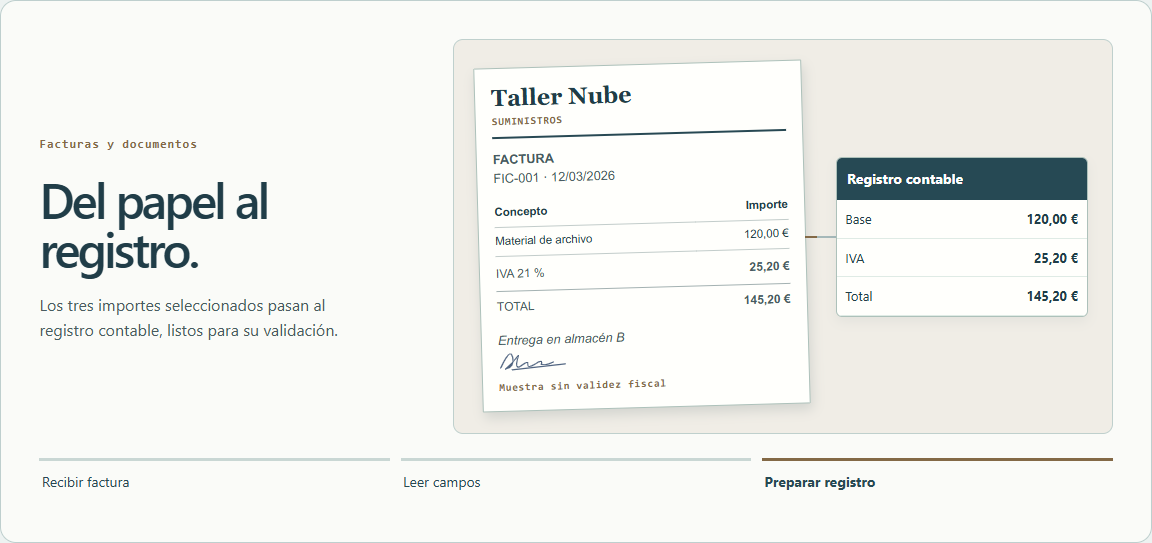
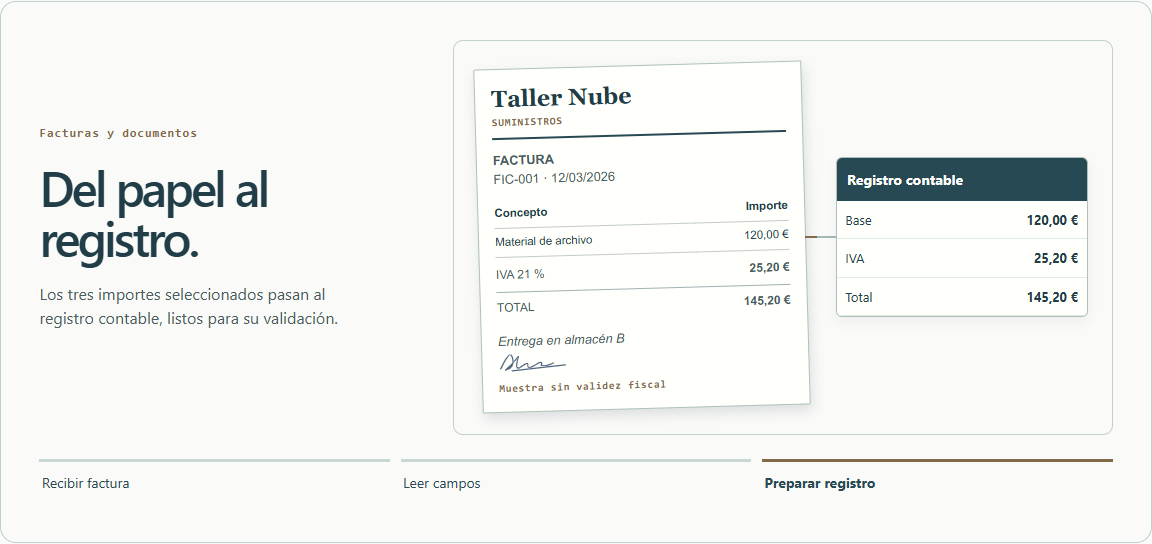
Unifica las animaciones y envía las consultas al buzón de SYSVARK

diff --git a/demos/demo.css b/demos/demo.css
@@ -1,26 +1,38 @@
-.showcase{padding:clamp(64px,8vw,116px) 5vw;background:#edf2f1;color:#203d48;scroll-margin-top:85px}
+.showcase{padding:clamp(64px,8vw,116px) 5vw;background:transparent;color:#203d48;scroll-margin-top:85px}
 .showcase-inner{max-width:1170px;margin:auto}.showcase h2{font-size:clamp(2.4rem,5vw,4.7rem);line-height:1.04;letter-spacing:-.06em;margin:.4em 0 .2em}.showcase-intro{margin:0 0 2rem;color:#455e65}
-.scene{--accent:#436e68;padding:clamp(1rem,3vw,2.4rem);background:#fafbf8;border:1px solid #becfce;border-radius:16px;display:grid;grid-template-columns: minmax(0,.78fr) minmax(0,1.35fr);gap:1.5rem 2rem;align-items:center}
+.scene{--accent:#436e68;padding:clamp(1rem,3vw,2.4rem);background:transparent;border:1px solid #becfce;border-radius:16px;display:grid;grid-template-columns: minmax(0,.78fr) minmax(0,1.35fr);gap:1.5rem 2rem;align-items:center}
 .scene[hidden]{display:none}.scene+.scene:not([hidden]){margin-top:0}.scene header small,.bill-paper small,.mail-card small{font:600 .76rem/1.4 ui-monospace,monospace;letter-spacing:.07em;color:var(--accent)}
 .scene h3{font-size:clamp(2rem,3.8vw,3.6rem);letter-spacing:-.055em;line-height:1.02;margin:.4em 0}.scene header p{line-height:1.55;max-width:38ch;color:#495c60}
-.workbench{position:relative;display:grid;grid-template-columns:minmax(0,.95fr) minmax(18px,.20fr) minmax(0,1.18fr);align-items:center;min-height:270px;padding:clamp(.65rem,2vw,1.5rem);border-radius:10px;border:1px solid #bfd0cd;background-color:#e4eeea}
-.bills{--accent:#836946}.bills .workbench{background-color:#f0ede6}.inbox{--accent:#536884}.inbox .workbench{background-color:#e6ecf1}
+.workbench{position:relative;display:grid;grid-template-columns:minmax(0,.95fr) minmax(18px,.20fr) minmax(0,1.18fr);align-items:center;min-height:270px;padding:clamp(.65rem,2vw,1.5rem);border-radius:10px;border:1px solid #bfd0cd;background-color:transparent}
+.bills{--accent:#836946}.inbox{--accent:#536884}
 .sheet-pile{display:grid;gap:6px;perspective:500px}.sheet-pile span,.bill-paper,.mail-card,.ledger{background:#fffffc;border:1px solid #adc1ba;border-radius:6px;box-shadow:0 5px 12px #203d4810}.sheet-pile span{display:flex;align-items:center;gap:.45rem;padding:.65rem;font:600 clamp(.7rem,1.4vw,.96rem) ui-monospace,monospace;border-left:4px solid #5e8977;transition:transform .75s}.sheet-pile span:before{content:'';width:14px;height:14px;background:repeating-linear-gradient(0deg,#789d8a 0 1px,transparent 1px 5px),repeating-linear-gradient(90deg,#789d8a 0 1px,transparent 1px 5px)}
-.scene[data-stage="1"] .sheet-pile span:first-child,.scene[data-stage="2"] .sheet-pile span:first-child{transform:translate(6px,6px) rotate(3deg)}.scene[data-stage="1"] .sheet-pile span:last-child,.scene[data-stage="2"] .sheet-pile span:last-child{transform:translate(6px,-6px) rotate(-3deg)}
+
 .transfer{position:relative;height:2px;background:#a5b8b9;overflow:hidden}.transfer:after{content:'';position:absolute;inset:0 auto 0 0;width:40%;background:var(--accent);animation:transfer 1.45s linear infinite}@keyframes transfer{from{left:-45%}to{left:100%}}
 .ledger{position:relative;overflow:hidden}.ledger>strong{display:block;color:white;background:#264954;padding:.65rem;font-size:.88rem}.ledger dl{margin:0}.ledger dl div{display:flex;align-items:center;justify-content:space-between;flex-wrap:wrap;gap:.2rem .4rem;padding:.55rem;border-bottom:1px solid #dfebe5;font-size:.8rem;min-height:36px}.ledger dd{font-weight:650;margin:0;transition:opacity .55s,transform .55s}.good{color:#275a46}.review{color:#81591f}.scene[data-stage="0"] .ledger dd{opacity:.12;transform:translateY(4px)}.scene[data-stage="1"] .ledger dl div:last-child dd{opacity:.22}
-.bill-paper,.mail-card{padding:clamp(.6rem,1.6vw,1rem);position:relative;overflow:hidden}.bill-paper>*:not(i):not(table),.mail-card>*{display:block}.bill-paper b,.mail-card b{margin:.5rem 0}.bill-paper div,.mail-card span{font-size:.8rem;color:#485b62}.bill-paper hr{border:0;border-bottom:1px dashed #a7aaa0;margin:.9rem 0}.bill-paper i{position:absolute;left:0;right:0;top:8%;height:2px;background:#ba9660;opacity:0}.bills[data-stage="1"] .bill-paper i{opacity:1;animation:scan 2.2s ease-in-out both}@keyframes scan{to{top:92%}}
+.bill-paper,.mail-card{padding:clamp(.6rem,1.6vw,1rem);position:relative;overflow:hidden}.bill-paper>*:not(i):not(table),.mail-card>*{display:block}.bill-paper b,.mail-card b{margin:.5rem 0}.bill-paper div,.mail-card span{font-size:.8rem;color:#485b62}.bill-paper hr{border:0;border-bottom:1px dashed #a7aaa0;margin:.9rem 0}.bill-paper i{position:absolute;left:0;right:0;top:0;height:2px;background:#ba9660;opacity:0}.bills[data-stage="1"] .bill-paper i{opacity:1;animation:scan 3.2s linear both}@keyframes scan{from{top:0}to{top:calc(100% - 2px)}}
 .mail-card{border-top:4px solid #72899f}.matched{transition:background .6s}.inbox:not([data-stage="0"]) .matched{background:#dfebec}.scene footer{grid-column:1/-1;display:grid;grid-template-columns:repeat(3,1fr);gap:.65rem;background:transparent;color:#4b6061;padding:0}.scene footer span{border-top:3px solid #d5dfdd;padding:.5rem 0 0;font-size:.86rem}.scene[data-stage="0"] footer span:first-child,.scene[data-stage="1"] footer span:nth-child(2),.scene[data-stage="2"] footer span:last-child{border-color:var(--accent);color:#203d48;font-weight:650}
 @media(min-width:741px){.scene header{min-height:203px}}@media(max-width:740px){.scene{grid-template-columns:1fr;gap:1rem}.scene header p{max-width:none;min-height:4.7em;margin-bottom:0}.workbench{min-height:210px}.scene footer span{font-size:.78rem}}
-@media(prefers-reduced-motion:reduce){.scene+.scene:not([hidden]){margin-top:1rem}.scene *,.scene *:after{animation:none!important;transition:none!important}}
+@media(prefers-reduced-motion:reduce){.scene *,.scene *:after{animation:none!important;transition:none!important}}
 .scene-picker{display:flex;flex-wrap:wrap;gap:.45rem;margin:1.3rem 0 .85rem}.scene-picker button,.scene footer button{font:inherit;cursor:pointer;color:#274953}.scene-picker button{border:1px solid #aebfc2;background:#fafbf8;padding:.6rem 1rem;border-radius:20px;font-size:.92rem}.scene-picker [aria-pressed=true]{background:#203d48;color:white;border-color:#203d48}.scene footer{display:flex;flex-wrap:wrap}.scene footer button{flex:1 1 5rem;text-align:left;background:transparent;border:0;border-top:3px solid #c9d7d4;padding:.65rem .15rem;font-size:.87rem}.scene footer [aria-pressed=true]{border-color:var(--accent);font-weight:650}.showcase button:focus-visible{outline:3px solid #426d79;outline-offset:3px}.bills .workbench{grid-template-columns:minmax(0,1.3fr) minmax(12px,.12fr) minmax(0,1fr)}.bill-paper{border-radius:1px;transform:rotate(-1.6deg);font-family:Arial,sans-serif;box-shadow:2px 6px 12px #203d4824}.bill-paper .invoice-letterhead{border-bottom:2px solid #284953;padding-bottom:.4rem}.invoice-letterhead b{display:block;color:#203d48;font:650 clamp(1rem,2vw,1.45rem) Georgia,serif;margin:0}.invoice-letterhead small,.bill-paper .invoice-foot{font-size:.65rem}.invoice-ident{margin:.65rem 0;font-size:.75rem}.invoice-ident span{display:block}.bill-paper table{width:100%;border-collapse:collapse;font-size:.72rem}.bill-paper caption{position:absolute;clip-path:inset(50%);width:1px;height:1px;overflow:hidden}.bill-paper th,.bill-paper td{text-align:left;padding:.3rem 0;border-bottom:1px solid #c2ccca}.bill-paper th:last-child,.bill-paper td:last-child{text-align:right;white-space:nowrap}.bill-paper .invoice-tax,.bill-paper .invoice-total{display:flex;align-items:center;justify-content:space-between;font-size:.75rem}.bill-paper .invoice-total{border-top:1px solid #a3b1b1;padding:.35rem 0}.invoice-foot{margin-top:.4rem}@media(max-width:520px){.scene-picker button{flex:1 1 42%;padding:.55rem .35rem}.workbench,.bills .workbench{grid-template-columns:1fr;gap:.45rem}.workbench .transfer{width:2px;height:14px;justify-self:center}.workbench .transfer:after{width:100%;height:45%;animation-name:transfer-down}.bill-paper{width:min(100%,240px);justify-self:center}}
 @keyframes transfer-down{from{top:-45%}to{top:100%}}
 
 .sheet-pile small,.paper-note{font-size:.75rem;color:#536870}.bill-paper .signature{width:75px;height:24px;color:#516581}.paper-note{margin-top:.55rem;font-style:italic}
-.sheets[data-stage="0"] .ledger dl,.sheets[data-stage="1"] .ledger dl div:last-child,.inbox[data-stage="0"] .ledger dl,.inbox[data-stage="1"] .ledger dl div:last-child,.bills:not([data-stage="2"]) .ledger dl{visibility:hidden}
+.sheets[data-stage="0"] .ledger dl,.inbox[data-stage="0"] .ledger dl,.inbox[data-stage="1"] .ledger dl div:last-child,.bills:not([data-stage="2"]) .ledger dl{visibility:hidden}
 .inbox[data-stage="1"] .matched dd{opacity:1}.inbox .ledger dd{max-width:100%}
 .workflow-nodes{list-style:none;padding:0;margin:0}
 .workflow-nodes li{display:grid;grid-template-columns:18px 1fr;align-items:center;gap:.1rem .5rem;padding:.4rem .65rem;border-bottom:1px solid #dfebe5;color:#51656a;transition:background .4s}
 .workflow-nodes img{width:16px;height:16px;grid-row:span 2}
 .workflow-nodes b,.workflow-nodes span{font-size:.77rem;line-height:1.35}
 .workflow-nodes span{grid-column:2}.workflow-nodes .current{background:#dcece6;color:#203d48;box-shadow:inset 3px 0 #518373}
+
+.scene-stack{display:grid}.scene-stack>.scene{grid-area:1/1;min-width:0;grid-template-rows:1fr auto}.scene[aria-hidden=true]{visibility:hidden;pointer-events:none}.scene[aria-hidden=true] *{visibility:hidden!important}
+.scene header p{display:grid}.stage-copy{grid-area:1/1}
+.sheet-pile{position:relative;--merge-distance:calc(100% + 6px)}.sheet-pile>span{transition:transform .85s ease,opacity .45s .5s}
+.sheets:not([data-stage="0"]) .sheet-pile>span{opacity:0}
+.sheets:not([data-stage="0"]) .sheet-pile>span:nth-of-type(1){transform:translateY(var(--merge-distance))}
+.sheets:not([data-stage="0"]) .sheet-pile>span:nth-of-type(3){transform:translateY(calc(-1 * var(--merge-distance)))}
+.merged-sheet{grid-row:3;grid-column:1;align-self:center;z-index:1;opacity:0;border:1px solid #adc1ba;border-left:4px solid #5e8977;border-radius:5px;padding:.45rem;background:#fff;transition:opacity .4s .65s}
+.sheet-pile>span:nth-of-type(2){grid-row:3;grid-column:1}.merged-sheet small{display:block;font-weight:400}.sheets:not([data-stage="0"]) .merged-sheet{opacity:1}
+.sheets[data-stage="1"] .ledger dl div:last-child dd{opacity:1;color:#415b63}
+.sheets:not([data-stage="2"]) .verdict,.sheets[data-stage="2"] .compare{display:none}
+@media(max-width:740px){.scene-stack>.scene{grid-template-rows:auto 1fr auto}}

diff --git a/demos/section.html b/demos/section.html
@@ -2,13 +2,13 @@
 <div class="showcase-inner">
 <p class="eyebrow">Demostraciones</p><h2 id="demo-heading">De la tarea al resultado.</h2>
 <p class="showcase-intro">Cuatro procesos con datos ficticios. Elige un ejemplo o sigue el recorrido automático.</p>
-<div class="demo-theater"><div class="scene-picker" role="group" aria-label="Seleccionar demostración"><button type="button" aria-controls="example-sheets">Informes Excel</button><button type="button" aria-controls="example-bills">Facturas</button><button type="button" aria-controls="example-inbox">Solicitudes</button><button type="button" aria-controls="example-flow">Flujo conectado</button></div>
-<article id="example-sheets" class="scene sheets" data-stage="0">
+<div class="demo-theater"><div class="scene-picker" role="group" aria-label="Seleccionar demostración"><button type="button" aria-controls="example-sheets">Informes Excel</button><button type="button" aria-controls="example-bills">Facturas</button><button type="button" aria-controls="example-inbox">Seguimiento de envíos</button><button type="button" aria-controls="example-flow">Flujo conectado</button></div>
+<div class="scene-stack"><article id="example-sheets" class="scene sheets" data-stage="0">
 <header><small>Excel e informes</small><h3>El cierre mensual de tres tiendas.</h3><p>Cada tienda envía su Excel de ventas. Administración necesita reunir los tres archivos para cerrar el mes.</p></header>
 <div class="workbench" aria-label="Dos filas idénticas se consolidan y una diferencia queda marcada">
-<div class="sheet-pile"><small>Ventas de marzo</small><span>Norte.xlsx</span><span>Centro.xlsx</span><span>Sur.xlsx</span></div>
+<div class="sheet-pile"><small>Ventas de marzo</small><span>Norte.xlsx</span><span>Centro.xlsx</span><span>Sur.xlsx</span><b class="merged-sheet">Marzo.xlsx<small>3 archivos reunidos</small></b></div>
 <div class="transfer" aria-hidden="true"></div>
-<div class="ledger"><strong>Cierre de marzo</strong><dl><div><dt>OP-102 · 80 €</dt><dd class="good">Copia agrupada</dd></div><div><dt>OP-103 · 32 / 36 €</dt><dd class="review">Revisar</dd></div></dl></div></div>
+<div class="ledger"><strong>Cierre de marzo</strong><dl><div><dt>OP-102 · 80 €</dt><dd class="good">Copia agrupada</dd></div><div><dt>OP-103 · 32 / 36 €</dt><dd class="review"><span class="compare">Norte y Sur</span><span class="verdict">Revisar</span></dd></div></dl></div></div>
 <footer aria-label="Etapas del ejemplo"><button type="button">Reunir hojas</button><button type="button">Cruzar referencias</button><button type="button">Revisar diferencias</button></footer></article>
 <article id="example-bills" class="scene bills" data-stage="0">
 <header><small>Facturas y documentos</small><h3>Del papel al registro.</h3><p>El OCR lee los importes elegidos para contabilidad. La firma y la nota de entrega se conservan en el documento original.</p></header>
@@ -18,14 +18,14 @@
 <div class="ledger"><strong>Registro contable</strong><dl><div><dt>Base</dt><dd>120,00 €</dd></div><div><dt>IVA</dt><dd>25,20 €</dd></div><div><dt>Total</dt><dd>145,20 €</dd></div></dl></div></div>
 <footer aria-label="Etapas del ejemplo"><button type="button">Recibir factura</button><button type="button">Leer campos</button><button type="button">Preparar registro</button></footer></article>
 <article id="example-inbox" class="scene inbox" data-stage="0">
-<header><small>Seguimiento de solicitudes</small><h3>Un cliente pregunta por su envío.</h3><p>El cliente esperaba su paquete ayer. Su correo inicia una consulta de entrega.</p></header>
+<header><small>Atención posventa</small><h3>Un cliente pregunta por su envío.</h3><p>El cliente esperaba su paquete ayer. Su correo inicia una consulta de entrega.</p></header>
 <div class="workbench" aria-label="Una solicitud sobre un envío llega a la cola de logística">
 <div class="mail-card"><small>BANDEJA DE ENTRADA</small><b>¿Dónde está mi pedido?</b><span>«Tenía que llegar ayer. ¿Podéis comprobarlo?»</span></div>
 <div class="transfer" aria-hidden="true"></div>
-<div class="ledger queues"><strong>Seguimiento del envío</strong><dl><div><dt>Motivo</dt><dd>Retraso en la entrega</dd></div><div class="matched"><dt>Responsable</dt><dd>Logística</dd></div><div><dt>Respuesta al cliente</dt><dd class="good">«Estamos consultando tu envío»</dd></div></dl></div></div>
+<div class="ledger queues"><strong>Seguimiento del envío</strong><dl><div><dt>Motivo</dt><dd>Retraso en la entrega</dd></div><div class="matched"><dt>Responsable</dt><dd>Logística</dd></div><div><dt>Aviso de entrega</dt><dd class="good">«Tu paquete está en reparto. Llegará hoy entre las 16:00 y las 18:00.»</dd></div></dl></div></div>
 <footer aria-label="Etapas del ejemplo"><button type="button">Recibir correo</button><button type="button">Clasificar asunto</button><button type="button">Asignar y avisar</button></footer></article>
 <article id="example-flow" class="scene workflow" data-stage="0">
 <header><small>Integración de herramientas</small><h3>De la tienda a la confirmación.</h3><p>Una tienda pide dos cajas de aceite. El formulario pone en marcha la comprobación de existencias.</p></header>
-<div class="workbench" aria-label="Del pedido recibido a su confirmación"><div class="mail-card"><small>PEDIDO DE LA TIENDA</small><b>Dos cajas de aceite</b><span>Entrega en tienda</span></div><div class="transfer" aria-hidden="true"></div><div class="ledger"><strong>Seguimiento del pedido</strong><ol class="workflow-nodes"><li><img src="./assets/logos/googleforms.svg" alt=""><b>Formulario</b><span>2 cajas de aceite</span></li><li><img src="./assets/logos/airtable.svg" alt=""><b>Inventario</b><span>3 cajas en almacén</span></li><li><img src="./assets/logos/n8n.svg" alt=""><b>Regla de stock</b><span>3 disponibles ≥ 2 pedidas</span></li><li><img src="./assets/logos/googlesheets.svg" alt=""><b>Registro</b><span>2 cajas reservadas</span></li><li><img src="./assets/logos/gmail.svg" alt=""><b>Correo</b><span>Confirmación enviada</span></li></ol></div></div>
+<div class="workbench" aria-label="Del pedido recibido a su confirmación"><div class="mail-card"><small>PEDIDO DE LA TIENDA</small><b>Dos cajas de aceite</b><span>La tienda necesita reservar el producto antes de confirmar la entrega.</span></div><div class="transfer" aria-hidden="true"></div><div class="ledger"><strong>Seguimiento del pedido</strong><ol class="workflow-nodes"><li><img src="./assets/logos/googleforms.svg" alt=""><b>Formulario</b><span>2 cajas de aceite</span></li><li><img src="./assets/logos/airtable.svg" alt=""><b>Inventario</b><span>3 cajas en almacén</span></li><li><img src="./assets/logos/n8n.svg" alt=""><b>Regla de stock</b><span>3 disponibles ≥ 2 pedidas</span></li><li><img src="./assets/logos/googlesheets.svg" alt=""><b>Registro</b><span>2 cajas reservadas</span></li><li><img src="./assets/logos/gmail.svg" alt=""><b>Correo</b><span>Confirmación enviada</span></li></ol></div></div>
 <footer aria-label="Etapas del ejemplo"><button type="button">Recibir</button><button type="button">Consultar</button><button type="button">Decidir</button><button type="button">Registrar</button><button type="button">Notificar</button></footer></article>
-</div></div></section>
+</div></div></div></section>

diff --git a/privacidad.html b/privacidad.html
@@ -1,1 +1,1 @@
-<!doctype html><html lang="es-ES"><head><meta charset="utf-8"><meta name="viewport" content="width=device-width, initial-scale=1"><title>Política de privacidad · SYSVARK</title><meta name="description" content="Cómo funcionan las demostraciones locales y el contacto de privacidad de SYSVARK."><link rel="canonical" href="https://sysvark.github.io/privacidad.html"><meta property="og:title" content="Política de privacidad · SYSVARK"><meta property="og:description" content="Cómo funcionan las demostraciones locales y el contacto de privacidad de SYSVARK."><meta property="og:image" content="https://sysvark.github.io/assets/og.png"><meta name="twitter:card" content="summary_large_image"><link rel="icon" href="./assets/favicon.svg"><link rel="stylesheet" href="./assets/legal.css"></head><body><header><a href="./" aria-label="Volver a SYSVARK"><img src="./assets/wordmark.svg" width="160" height="35" alt="SYSVARK"></a></header><main><p>Información del sitio · 24 noviembre 2026</p><h1>Política de privacidad</h1><h2>Responsable y contacto</h2><p>Álvaro Sánchez Pérez, responsable del proyecto SYSVARK en España, atiende las consultas de privacidad en <a href="mailto:sysvark@outlook.com">sysvark@outlook.com</a>.</p><h2>Demostraciones y calculadora</h2><p>Las cuatro animaciones utilizan ejemplos ficticios incluidos en la página. La calculadora realiza la estimación en el navegador. Los valores que introduces se descartan al cerrar o recargar la página.</p><h2>Correo y ejercicio de derechos</h2><p>Si escribes al buzón, se reciben tu dirección y el contenido que decidas enviar. Se utilizarán para atender tu comunicación y acreditar su respuesta durante el plazo que exijan las obligaciones aplicables. Microsoft presta el servicio de correo. Las solicitudes de derechos se atienden en cumplimiento de las obligaciones legales del responsable.</p><p>Puedes solicitar acceso, rectificación, supresión, limitación, oposición o portabilidad cuando proceda y presentar una reclamación ante la <a href="https://www.aepd.es/">Agencia Española de Protección de Datos</a>. Evita adjuntar documentación confidencial al primer mensaje.</p><h2>Registros de alojamiento y cookies</h2><p>Cuando accedes a una publicación en GitHub Pages, GitHub recibe datos técnicos de la conexión, incluida la dirección IP. Su política describe los fines, conservación y transferencias internacionales. Esta web carece de analítica, publicidad y cookies propias. Los estilos, gráficos y bibliotecas se sirven junto a la web.</p><p><a href="https://docs.github.com/en/site-policy/privacy-policies/github-general-privacy-statement">Privacidad de GitHub</a> · <a href="https://privacy.microsoft.com/es-es/privacystatement">Privacidad de Microsoft</a></p><h2>Solicitudes comerciales</h2><p>Los campos de contacto sirven para preparar un borrador en tu navegador. Al pulsar «Abrir en mi correo», los datos se trasladan a la aplicación de correo que tengas configurada. Tú decides cuándo enviar el mensaje. SYSVARK lo utiliza para responder a tu consulta y, si lo solicitas, preparar una propuesta.</p></main><footer><a href="./">Inicio</a> · <a href="./aviso-legal.html">Aviso legal</a> · <a href="./privacidad.html">Privacidad</a></footer></body></html>
+<!doctype html><html lang="es-ES"><head><meta charset="utf-8"><meta name="viewport" content="width=device-width, initial-scale=1"><title>Política de privacidad · SYSVARK</title><meta name="description" content="Cómo funcionan las demostraciones locales y el contacto de privacidad de SYSVARK."><link rel="canonical" href="https://sysvark.github.io/privacidad.html"><meta property="og:title" content="Política de privacidad · SYSVARK"><meta property="og:description" content="Cómo funcionan las demostraciones locales y el contacto de privacidad de SYSVARK."><meta property="og:image" content="https://sysvark.github.io/assets/og.png"><meta name="twitter:card" content="summary_large_image"><link rel="icon" href="./assets/favicon.svg"><link rel="stylesheet" href="./assets/legal.css"></head><body><header><a href="./" aria-label="Volver a SYSVARK"><img src="./assets/wordmark.svg" width="160" height="35" alt="SYSVARK"></a></header><main><p>Información del sitio · 24 noviembre 2026</p><h1>Política de privacidad</h1><h2>Responsable y contacto</h2><p>Álvaro Sánchez Pérez, responsable del proyecto SYSVARK en España, atiende las consultas de privacidad en <a href="mailto:sysvark@outlook.com">sysvark@outlook.com</a>.</p><h2>Demostraciones y calculadora</h2><p>Las cuatro animaciones utilizan ejemplos ficticios incluidos en la página. La calculadora realiza la estimación en el navegador. Los valores que introduces se descartan al cerrar o recargar la página.</p><h2>Correo y ejercicio de derechos</h2><p>Si escribes al buzón, se reciben tu dirección y el contenido que decidas enviar. Se utilizarán para atender tu comunicación y acreditar su respuesta durante el plazo que exijan las obligaciones aplicables. Microsoft presta el servicio de correo. Las solicitudes de derechos se atienden en cumplimiento de las obligaciones legales del responsable.</p><p>Puedes solicitar acceso, rectificación, supresión, limitación, oposición o portabilidad cuando proceda y presentar una reclamación ante la <a href="https://www.aepd.es/">Agencia Española de Protección de Datos</a>. Evita adjuntar documentación confidencial al primer mensaje.</p><h2>Registros de alojamiento y cookies</h2><p>Cuando accedes a una publicación en GitHub Pages, GitHub recibe datos técnicos de la conexión, incluida la dirección IP. Su política describe los fines, conservación y transferencias internacionales. Esta web carece de analítica, publicidad y cookies propias. Los estilos, gráficos y bibliotecas se sirven junto a la web.</p><p><a href="https://docs.github.com/en/site-policy/privacy-policies/github-general-privacy-statement">Privacidad de GitHub</a> · <a href="https://privacy.microsoft.com/es-es/privacystatement">Privacidad de Microsoft</a></p><h2>Solicitudes comerciales</h2><p>Al pulsar «Enviar consulta», FormSubmit recibe los campos introducidos y remite el mensaje al buzón de SYSVARK en Outlook. Usamos esos datos para responder y preparar la propuesta que solicites. FormSubmit indica que conserva las consultas durante 30 días. <a href="https://formsubmit.co/privacy.pdf">Privacidad de FormSubmit</a>.</p></main><footer><a href="./">Inicio</a> · <a href="./aviso-legal.html">Aviso legal</a> · <a href="./privacidad.html">Privacidad</a></footer></body></html>

diff --git a/contact/contact.js b/contact/contact.js
@@ -1,49 +1,24 @@
 const form = document.getElementById('proposal');
 if (form) {
-  const endpoint = form.dataset.endpoint;
   const fields = form.querySelector('fieldset');
   const status = document.getElementById('send-status');
   fields.disabled = false;
-  if (endpoint) {
-    form.querySelector("button[type=submit]").textContent = "Solicitar propuesta";
-    document.getElementById('contact-info').textContent = 'Describe el proceso con un ejemplo general. Evita incluir datos confidenciales o documentos de clientes.';
-  }
-  const draft = document.getElementById('draft-actions');
-  const preview = document.getElementById('draft-text');
-  form.addEventListener('input', () => { draft.hidden = true; status.textContent = ''; });
-  document.getElementById('copy-draft').addEventListener('click', async () => {
-    try {
-      await navigator.clipboard.writeText(preview.value);
-      status.textContent = 'Mensaje copiado. Puedes pegarlo en un correo a sysvark@outlook.com.';
-    } catch {
-      preview.focus();
-      preview.select();
-      status.textContent = 'El mensaje está seleccionado para que puedas copiarlo.';
-    }
-  });
+  form.addEventListener('input', () => { status.textContent = ''; });
   form.addEventListener('submit', async event => {
     event.preventDefault();
     if (fields.disabled || !form.reportValidity()) return;
     const data = new FormData(form);
-    if (data.get('_gotcha')) return;
-    if (!endpoint) {
-      preview.value = ['Hola, SYSVARK:', '', data.get('proceso'), '', data.get('nombre'), data.get('empresa'), data.get('email'), data.get('telefono')].filter(value => value != null).join('\n').trim();
-      const subject = 'Consulta de automatización · ' + data.get('empresa');
-      document.getElementById('open-draft').href = 'mailto:sysvark@outlook.com?subject=' + encodeURIComponent(subject) + '&body=' + encodeURIComponent(preview.value);
-      draft.hidden = false;
-      status.textContent = 'Borrador preparado. Abre tu correo para enviarlo o copia el mensaje.';
-      return;
-    }
+    if (data.get('_honey')) return;
     fields.disabled = true;
-    status.textContent = 'Enviando la solicitud…';
+    status.textContent = 'Enviando tu consulta…';
     try {
-      const response = await fetch(endpoint, {method:'POST', body:data, headers:{Accept:'application/json'}, signal:AbortSignal.timeout(20000)});
+      const response = await fetch(form.action, {method:'POST', body:data, headers:{Accept:'application/json'}, signal:AbortSignal.timeout(60000)});
       const result = await response.json();
-      if (!response.ok || result.ok === false || result.errors?.length) throw new Error('Unconfirmed');
+      if (!response.ok || String(result.success) !== 'true') throw new Error('Unconfirmed');
       form.reset();
-      status.textContent = 'El servicio ha confirmado la recepción de tu solicitud.';
+      status.textContent = 'Mensaje enviado. Te responderemos en el correo que has indicado.';
     } catch {
-      status.textContent = 'No se ha podido confirmar la recepción. Conservamos lo escrito en esta página para que puedas reintentarlo.';
+      status.textContent = 'No se ha podido confirmar el envío. Puedes reintentarlo o escribir a sysvark@outlook.com.';
     } finally { fields.disabled = false; }
   });
 }

diff --git a/contact/section.html b/contact/section.html
@@ -1,8 +1,8 @@
 <section id="contacto" class="contact-section" aria-labelledby="contact-title">
   <div class="contact-layout">
-    <div><p class="contact-label">Contacto</p><h2 id="contact-title">Cuéntanos qué tarea te gustaría dejar de hacer manualmente.</h2><p id="contact-info">Cuéntanos qué ocurre hoy y qué resultado buscas. Prepararemos un borrador para que puedas revisarlo y enviarlo desde tu correo.</p><a href="mailto:sysvark@outlook.com">sysvark@outlook.com</a></div>
-    <form id="proposal" aria-describedby="contact-info" method="post">
-      <fieldset disabled><legend>Solicitud de propuesta</legend>
+    <div><p class="contact-label">Contacto</p><h2 id="contact-title">Cuéntanos qué tarea te gustaría dejar de hacer manualmente.</h2><p id="contact-info">Cuéntanos qué ocurre hoy y qué resultado buscas. Te responderemos en la dirección que indiques.</p><a href="mailto:sysvark@outlook.com">sysvark@outlook.com</a></div>
+    <form id="proposal" action="https://formsubmit.co/ajax/sysvark@outlook.com" aria-describedby="contact-info" method="post">
+      <input type="hidden" name="_subject" value="Nueva consulta desde la web de SYSVARK"><fieldset disabled><legend>Solicitud de propuesta</legend>
         <div class="contact-fields">
           <label>Nombre<input name="nombre" autocomplete="given-name" required maxlength="100"></label>
           <label>Empresa<input name="empresa" autocomplete="organization" required maxlength="160"></label>
@@ -10,12 +10,11 @@
           <label>Teléfono (opcional)<input name="telefono" type="tel" autocomplete="tel" maxlength="35"></label>
         </div>
         <label>Proceso que quieres automatizar<textarea name="proceso" required minlength="10" maxlength="3000" rows="3"></textarea></label>
-        <label hidden>Deja vacío este campo<input name="_gotcha" tabindex="-1" autocomplete="off"></label>
+        <label hidden>Deja vacío este campo<input name="_honey" tabindex="-1" autocomplete="off"></label>
         <label class="consent"><input name="privacidad" type="checkbox" required value="aceptada">Acepto la política de privacidad.</label>
-        <button type="submit">Preparar correo</button>
+        <button type="submit">Enviar consulta</button>
       </fieldset>
       <a href="./privacidad.html">Leer la política de privacidad</a>
-      <div id="draft-actions" hidden><label>Tu mensaje<textarea id="draft-text" readonly rows="6"></textarea></label><a id="open-draft">Abrir en mi correo</a><button type="button" id="copy-draft">Copiar mensaje</button></div>
       <p role="status" id="send-status"></p>
     </form>
   </div>

diff --git a/contact/contact.css b/contact/contact.css
@@ -1,3 +1,1 @@
 .contact-section{padding:clamp(4rem,8vw,8rem) max(5vw,1.25rem);background:#e8eff0;color:#203d48}.contact-layout{max-width:76rem;margin:auto;display:grid;grid-template-columns:1fr 1fr;gap:clamp(2rem,6vw,7rem)}.contact-section h2{font-size:clamp(2rem,4vw,3.8rem);line-height:1.04;letter-spacing:-.05em;max-width:18ch}.contact-section p{line-height:1.6;max-width:46ch}.contact-label{font:600 .85rem/1.5 monospace;text-transform:uppercase;letter-spacing:.08em}.contact-section fieldset{margin:0;padding:0;border:0}.contact-section legend{font-weight:bold;font-size:1.25rem;margin-bottom:1.3rem}.contact-fields{display:grid;grid-template-columns:1fr 1fr;gap:0 1rem}.contact-section label{display:block;font-size:.94rem;margin-bottom:.9rem}.contact-section label[hidden]{display:none}.contact-section input:not([type=checkbox]),.contact-section textarea{display:block;box-sizing:border-box;width:100%;margin-top:.35rem;padding:.7rem;background:#fafaf8;border:1px solid #9cadb1;color:#171717;border-radius:.4rem;font:inherit}.contact-section button{background:#203d48;border:0;color:white;font:inherit;padding:.75rem 1rem;border-radius:.4rem}.contact-section button:disabled{background:#54666c;cursor:not-allowed}.contact-section .consent input{margin-right:.5rem}.contact-section form>a{display:inline-block;margin-top:.85rem}.contact-section a{text-decoration:underline;text-underline-offset:.2em;color:inherit}@media(max-width:760px){.contact-layout{grid-template-columns:1fr}}@media(max-width:450px){.contact-fields{grid-template-columns:1fr}}
-
-#draft-actions:not([hidden]){display:grid;gap:.65rem;margin:1.2rem 0}#draft-actions button,#draft-actions a{justify-self:start}#draft-actions textarea{width:100%}

diff --git a/assets/site.js b/assets/site.js
@@ -93,12 +93,13 @@ if (blueprint) {
     "gmail": "Gmail",
     "googleforms": "Google Forms",
     "github": "GitHub",
+    "servicenow": "ServiceNow",
     "airtable": "Airtable",
     "notion": "Notion",
     "googlecalendar": "Google Calendar"
   };
   const sources = [['googlesheets','Filas'], ['googledrive','Archivos'], ['gmail','Consultas'],
-    ['googleforms','Solicitudes'], ['github','Incidencias'], ['airtable','Pedidos']];
+    ['googleforms','Solicitudes'], ['github','Código'], ['servicenow','Incidencias'], ['airtable','Pedidos']];
   const destinations = [['notion','Fichas'], ['airtable','Registros'], ['googlecalendar','Citas'],
     ['gmail','Respuestas'], ['googlesheets','Informes'], ['googledrive','Copias']];
   const pick = items => items[Math.floor(Math.random() * items.length)];
@@ -131,7 +132,7 @@ if (blueprint) {
         const [icon, role] = pick(available);
         node.classList.add('fading');
         fade = setTimeout(() => {
-          node.querySelector('image').setAttribute('href','/assets/logos/' + icon + '.svg');
+          node.querySelector('image').setAttribute('href','/assets/logos/' + icon + (icon === 'servicenow' ? '.ico' : '.svg'));
           label.textContent = toolNames[icon];
           node.querySelector('.port-role').textContent = role;
           node.classList.remove('fading');

diff --git a/assets/site.css b/assets/site.css
@@ -59,7 +59,7 @@ h3{font-size:1.32rem;letter-spacing:-.03em}.lead{max-width:43rem;margin-top:1rem
 #soluciones .lead{max-width:none;text-wrap:pretty}
 .blueprint{border:0;border-radius:0;background:transparent;box-shadow:none}
 .blueprint figcaption{font-family:inherit;font-weight:600;font-size:clamp(1.05rem,2vw,1.35rem);letter-spacing:-.025em;border:0;background:none;padding:.2rem 0 .65rem}
-.blueprint>svg{border-radius:8px;background:linear-gradient(115deg,#edf4f3,#e6eff1)}
+
 .blueprint-key{border:0;font-size:.85rem;font-family:inherit}
 .ink{background:linear-gradient(transparent 75%,#85b9b45c 75%) no-repeat left bottom;background-size:0 100%;transition:background-size .85s ease;box-decoration-break:clone;-webkit-box-decoration-break:clone}.ink.revealed{background-size:100% 100%}
 .estimate{font-variant-numeric:tabular-nums}.estimate .bar span{transition:width .36s ease-out}

diff --git a/README.md b/README.md
@@ -42,7 +42,7 @@ Para introducir otro idioma, conserva esta portada en la raíz y crea una ruta e
 
 Las escenas ilustran la consolidación de hojas, la lectura de facturas el reparto de solicitudes y un flujo de pedido conectado. Avanzan automáticamente con datos ficticios. El selector de ejemplo y los botones de etapa permiten recorrerlas manualmente. El modo de movimiento reducido desactiva el avance automático. La calculadora usa 52 semanas por año y 12 meses.
 
-El formulario permite escribir la consulta, preparar un borrador con destino a sysvark@outlook.com y abrirlo en el cliente de correo o copiarlo. El visitante envía el mensaje desde su correo. Para sustituir este recorrido por un envío directo, confirma primero la compatibilidad del alojamiento, completa la identidad del responsable y revisa el tratamiento con el proveedor. En la cuenta del titular crea un formulario de Formspree con destinatario verificado, configura su filtro de spam, acuerda la gestión de retención y actualiza la política de privacidad. Asigna el **endpoint público** de ese formulario a `FORMSPREE_ENDPOINT` al compilar. El workflow informativo omite la variable. Para activarla en un despliegue autorizado, configúrala como variable del repositorio y pásala explícitamente al paso de compilación. Comprueba con un mensaje ficticio tanto la respuesta del servicio como la llegada al buzón. Verifica también el caso sin conexión. La confirmación del servicio y la entrega al destinatario son comprobaciones distintas.
+El formulario envía la consulta a sysvark@outlook.com mediante FormSubmit. El buzón debe confirmar el enlace de activación del proveedor. La web muestra el acuse únicamente cuando FormSubmit acepta la consulta y conserva los campos ante un error.
 
 Las únicas variables son `SITE_URL` (origen HTTPS de la web, obtenido de Pages en el workflow), `FORMSPREE_ENDPOINT` (opcional) y `PORT` (desarrollo). Se leen del entorno del proceso. Todo valor incorporado al navegador es público. Mantén claves privadas, tokens, contraseñas y códigos de recuperación fuera de estas variables y del repositorio.
 
@@ -60,7 +60,7 @@ Las condiciones de Pages afectan al uso comercial. Mantén esta edición informa
 - **Solo aparece parte de la portada.** Usa la exportación de `dist/` servida por HTTP. El fichero fuente de la raíz conserva marcadores y los módulos necesitan un origen web.
 - **La compilación falla por un enlace.** La excepción indica el HTML y el recurso o ancla que falta. Comprueba también mayúsculas y minúsculas antes de subir a Linux.
 - **Actions no despliega.** Comprueba el nombre del repositorio, que la rama sea `main`, la fuente GitHub Actions y la primera etapa fallida en el registro. Tras corregirla, reintenta la ejecución.
-- **El correo no se abre.** Comprueba el cliente de correo predeterminado o utiliza «Copiar mensaje» y pega la consulta en un correo a sysvark@outlook.com.
+- **Envío de contacto.** Comprueba la activación del buzón y el acuse de FormSubmit si hay errores.
 - **Actualizar dependencias.** Revisa los avisos de seguridad y las versiones oficiales de PDF.js, JSZip y acciones de GitHub. Conserva las licencias. Repite pruebas de archivos, exportación, navegación y movimiento reducido después de actualizar. Las bibliotecas vendorizadas quedan fuera de npm audit.
 
 Los logotipos de trayectoria se sirven localmente. Fuentes: [BBVA](https://www.bbva.com/wp-content/themes/coronita-bbvacom/assets/images/logos/bbva-logo-900x269.png), [Ministerio de Transportes](https://www.transportes.gob.es/sites/default/files/logos/logo-ministerio.svg), [Telefónica](https://commons.wikimedia.org/wiki/File:Telef%C3%B3nica_2021_logo.svg), [NTT DATA](https://commons.wikimedia.org/wiki/File:NTT_Data_2025.svg) y [UST](https://commons.wikimedia.org/wiki/File:UST_(company)_Logo.svg).
